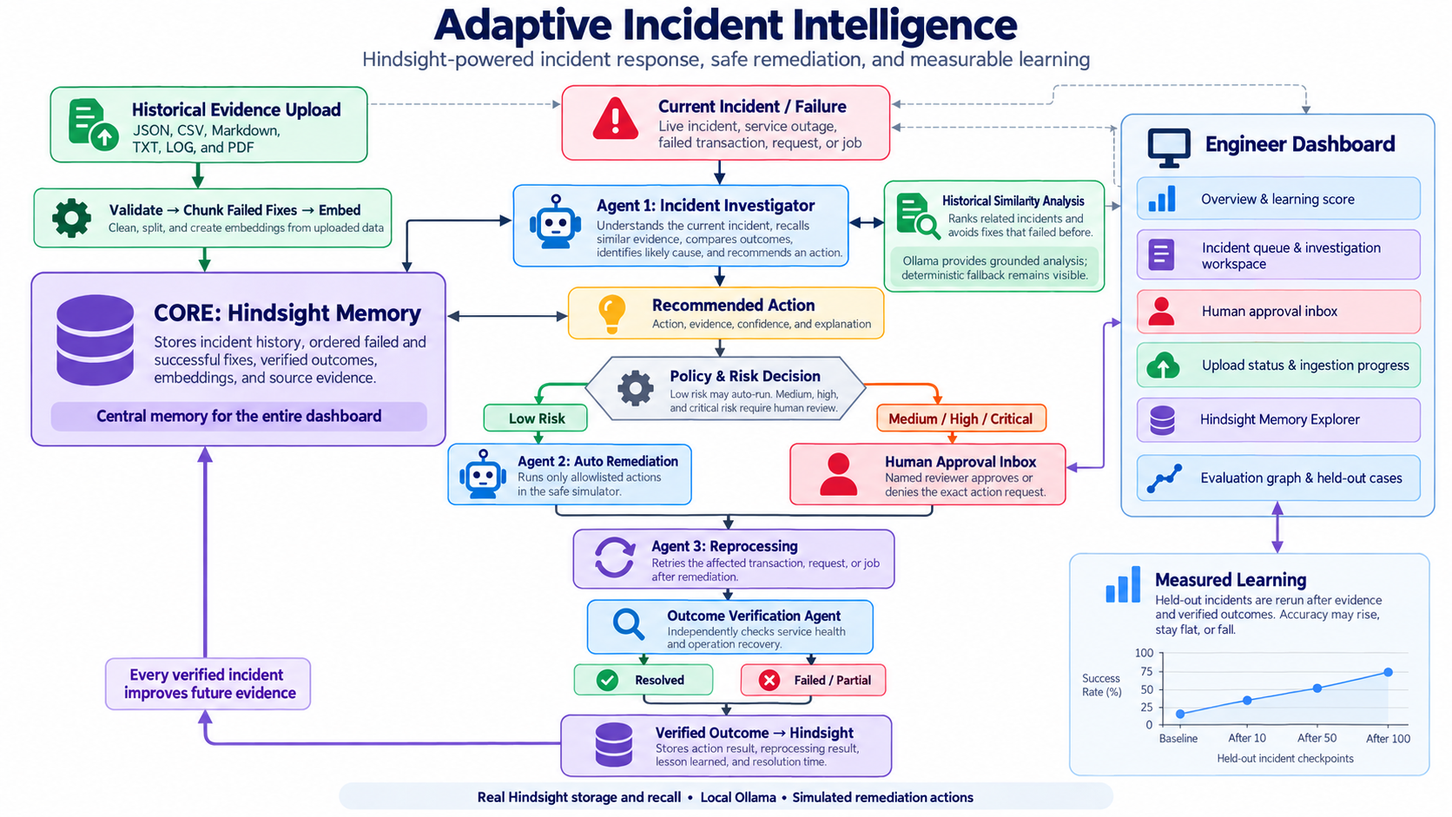
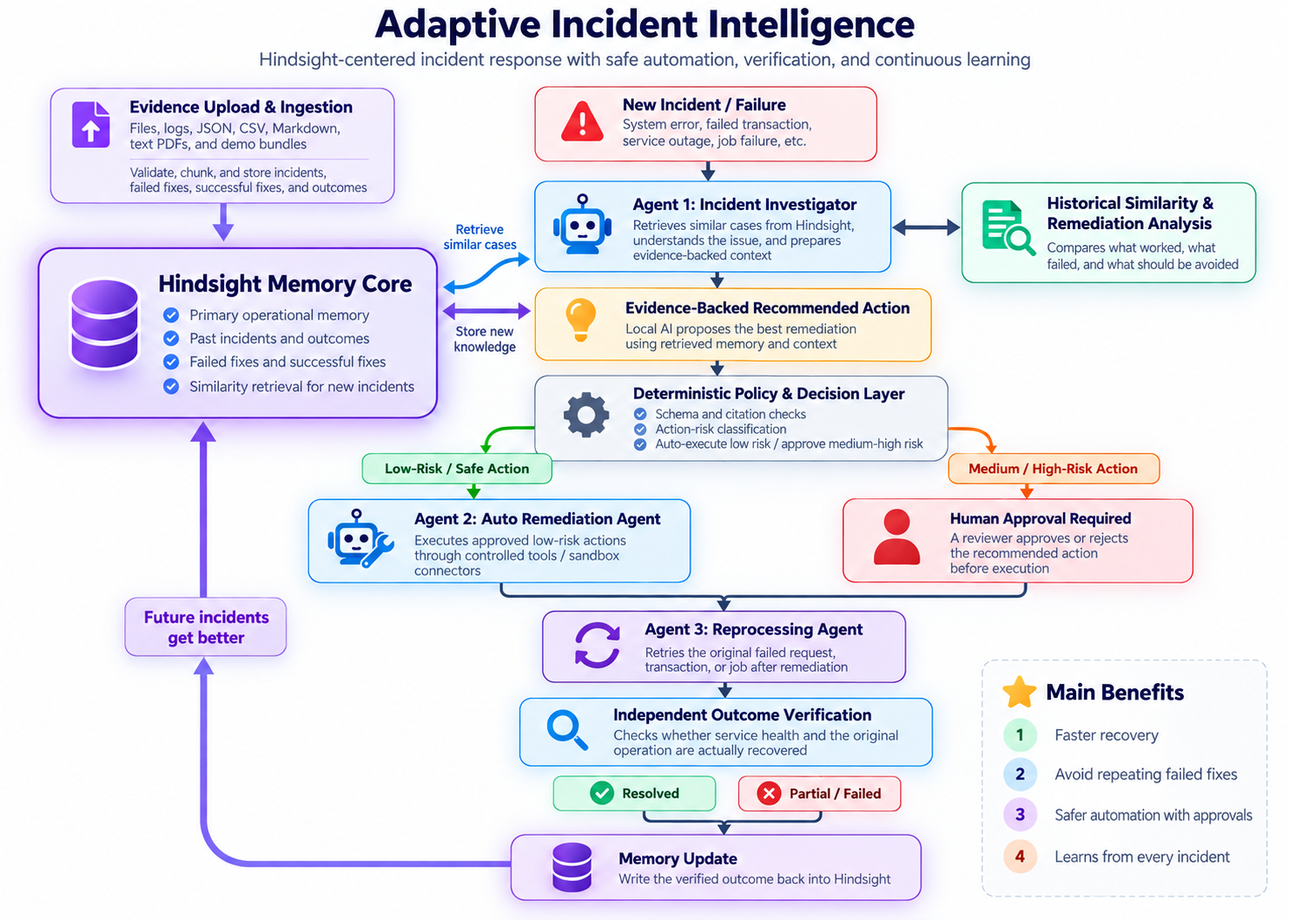
Synchronize architecture documentation

diff --git a/docs/architecture.md b/docs/architecture.md
@@ -2,7 +2,7 @@
 
 [Documentation index](README.md) | [Project overview](../README.md)
 
-![Adaptive Incident Intelligence system architecture](assets/system-architecture.svg)
+![Adaptive Incident Intelligence system architecture](assets/system-architecture-v3.png)
 
 ## Target flow
 
@@ -11,16 +11,18 @@
 3. The Incident Investigator consults Hindsight memory and historical similarity/remediation analysis.
 4. It returns a likely cause, recommended action, evidence, and confidence assessment.
 5. The Action Decision Layer checks an explicit action policy.
-6. The Auto Remediation Agent executes an allowed low-risk action, or waits for human approval for a medium/high-risk action. Rejected actions stop here.
+6. The policy layer authorizes automatic execution only for a low-risk action on a Low/Medium incident. Medium/high-risk actions and every High/Critical incident wait for human approval. Rejected actions stop here.
 7. After successful remediation, the Reprocessing Agent retries the failed transaction, request, or job.
 8. Outcome Verification checks whether the underlying problem and failed operation recovered.
-9. Resolved, failed, and partial outcomes are written to Hindsight for later investigations.
+9. Resolved, failed, and partial outcomes are written to Hindsight for later investigations. Insufficient-evidence and denied runs are retained as observations without claiming that a remediation failed.
 
-The dashboard does not maintain a parallel in-memory copy. It creates an isolated namespace on the configured backend, writes uploads and workflow outcomes there, and runs every UI investigation against that same namespace. With `MEMORY_BACKEND=hindsight`, the namespace is a real Hindsight bank. Reset rotates to a clean bank instead of clearing or impersonating Hindsight.
+The dashboard creates an isolated namespace on the configured backend, writes uploads, observations, and workflow outcomes there, and runs every UI investigation against that same namespace. With `MEMORY_BACKEND=hindsight`, the namespace is a real Hindsight bank. SQLite stores the dashboard projection, bank ID, upload index, pending reviews, completed workflows, and evaluation history so the same Hindsight-backed session resumes after an API restart. Reset explicitly rotates to a new clean bank.
+
+The diagram uses “Low-Risk / Safe Action” as a compact branch label. The authoritative rule also checks incident severity: High and Critical incidents always enter human review regardless of action risk.
 
 ## Measured learning
 
-The dashboard reruns the complete held-out set against the evidence available at each checkpoint: empty memory, every successful upload, and every verified workflow outcome. It records action accuracy, recommendation coverage, retrieval precision, failed-fix avoidance, per-case recommendations, and recalled source IDs. Expected labels remain outside prompts and memory records. Checkpoint values are measured independently, so the curve can stay flat or decline.
+The dashboard evaluates all 12 held-out cases against empty memory and after successful evidence or verified-outcome checkpoints. Evaluation runs in the background, resumes after an API restart, and keeps the last completed measurement visible while a new one runs. It records action accuracy, recommendation coverage, retrieval precision, failed-fix avoidance, per-case recommendations, and recalled source IDs. Expected labels remain outside prompts and memory records. Workflow clicks do not award points, and checkpoint values can stay flat or decline.
 
 Human approval authorizes a remediation; it does not itself fix the incident. Approved actions still need execution before reprocessing. This makes the approval branch in the supplied architecture explicit.
 
@@ -31,12 +33,12 @@ Human approval authorizes a remediation; it does not itself fix the incident. Ap
 | Incident Investigator | `agents/incident_investigator.py`, `agents/llm_investigator.py` | Deterministic baseline plus guarded Ollama synthesis |
 | Historical similarity and remediation analysis | `agents/remediation_memory.py`, `memory/memory_retriever.py` | Implemented for mock, SQLite, and Hindsight protocol clients |
 | Incident memory | `memory/hindsight_client.py`, `memory/sqlite_client.py`, `memory/hindsight_adapter.py` | Mock, SQLite, and official Hindsight SDK paths implemented |
-| Action Decision Layer | `tools/risk_classifier.py` | Implemented simulation allowlist and bound approvals |
+| Action Decision Layer | `tools/risk_classifier.py` | Allowlisted actions, authoritative risk, severity rules, and bound approvals |
 | Auto Remediation Agent | `agents/auto_remediation.py`, remediation service/tools | Implemented for local simulation |
 | Reprocessing Agent | `agents/reprocessing.py`, `tools/reprocessing_tools.py` | Implemented with remediation prerequisite |
 | Outcome Verification | `agents/outcome_verifier.py`, `services/verification_service.py` | Independent simulated health and operation checks |
-| Memory update | All memory clients through the shared protocol | Verified simulated outcomes written by `IncidentWorkflow` |
-| Web API | `api/app.py`, `api/runtime.py` | Typed incidents, investigation, workflow, approval, upload, reset, and evaluation endpoints |
+| Memory update | All memory clients through the shared protocol | Verified outcomes plus clearly typed unresolved/denied observations |
+| Web API | `api/app.py`, `api/runtime.py` | Typed incidents, investigation, workflow, approval, upload, reset, health, and background evaluation endpoints |
 | File ingestion and failed-remediation index | `services/ingestion_service.py`, `schemas/ingestion.py` | JSON validation, bounded chunks, local persistence/search, and Hindsight retention |
 
 The Remediation Memory module supports the investigator. It is distinct from the Auto Remediation Agent, which executes approved actions.
@@ -48,7 +50,7 @@ The Remediation Memory module supports the investigator. It is distinct from the
 - **Allow uncertainty:** return insufficient evidence when comparable history cannot support a recommendation.
 - **Separate recommendation and authorization:** every current investigation result has `execution_authorized: false`.
 - **Verify recovery:** a successful tool response alone is not proof that the failed operation recovered.
-- **Retain every outcome:** future memory should contain failures and partial recoveries as well as successful fixes.
+- **Retain every result:** memory contains successful, failed, and partial outcomes plus observations for unresolved or denied runs.
 - **Constrain the model:** schema validation, allowlisted actions, real citation checks, and historical sequence support run in Python.
 
 The hackathon's action tools are simulated. PIN reset is labeled low risk only within the synthetic demo; it is not a production authorization policy.

diff --git a/docs/implementation.md b/docs/implementation.md
@@ -23,7 +23,7 @@
 | `memory/hindsight_adapter.py`, `memory/factory.py` | Real SDK adapter and explicit mock/SQLite/Hindsight backend selection. |
 | `memory/sqlite_client.py` | Durable Docker-free local memory with transactional, idempotent writes. |
 | `memory/check_hindsight.py` | Connection and persistent write/read probe. |
-| `tests/test_hindsight_adapter.py` | 12 offline adapter and SDK contract tests. |
+| `tests/test_hindsight_adapter.py` | Offline adapter and SDK contract tests. |
 | `memory/hindsight_client.py` | Memory protocol and local in-memory implementation. |
 | `memory/memory_writer.py` | Validate datasets and seed historical records. |
 | `memory/memory_retriever.py` | Small facade that preserves complete histories. |
@@ -33,9 +33,9 @@
 | `schemas/investigation.py` | Evidence, counts, recommendation, and abstention output. |
 | `schemas/workflow.py` | Approval, simulation, execution, and recovery contracts. |
 | `data/*.json` | Historical inputs, remediation histories, and held-out labels. |
-| `tests/test_phase_one.py` | Foundation behavior: 11 tests. |
-| `tests/test_investigation.py` | Recommendation behavior: 11 tests. |
-| `tests/test_workflow.py` | Approval, execution, verification, and memory feedback: 16 tests. |
+| `tests/test_phase_one.py` | Foundation behavior and dataset separation. |
+| `tests/test_investigation.py` | Recommendation, abstention, and evidence behavior. |
+| `tests/test_workflow.py` | Approval, execution, verification, observations, and memory feedback. |
 | `llm/client.py`, `llm/prompts.py` | Bounded Ollama structured output and the evidence-only prompt. |
 | `schemas/llm.py` | Strict model proposal contract, separate from authorization. |
 | `schemas/ingestion.py`, `services/ingestion_service.py` | Upload result, failed-remediation chunks, validation, chunking, and storage orchestration. |
@@ -57,14 +57,14 @@
 - **Incident:** ID, service, severity, symptoms, environment, and optional error details, customer/transaction/job IDs, and recent change.
 - **RemediationAction:** action name, description, risk level (`LOW`, `MEDIUM`, `HIGH`), reason, and confidence between 0 and 1.
 - **Outcome:** unique outcome ID within an incident, incident ID, action, result (`SUCCESS`, `FAILED`, `PARTIAL`), optional reprocessing result, lesson, risk level, verification flag, and optional resolution time.
-- **IncidentMemory:** incident, optional root cause and recommendation, ordered outcomes, and optional final resolution.
+- **IncidentMemory:** typed experience or observation, incident, optional root cause and recommendation, ordered outcomes, related incident/workflow state, and optional final resolution.
 - **EvaluationCase:** held-out incident plus expected root cause, recommended action, relevant historical IDs, and actions to avoid before remediation. Labels are kept outside the incident input.
 
 Schemas reject unknown fields, empty required strings, invalid enum values, mismatched outcome incident IDs, duplicate outcome IDs within a record, and invalid confidence or duration values.
 
 ## Synthetic dataset
 
-There are **18 historical incidents and 6 held-out cases**, spanning:
+There are **18 historical incidents and 12 held-out cases** across six failure families. Each family has one primary test case and one additional held-out case, spanning:
 
 1. Customer PIN / master-data inconsistency.
 2. Payment provider routing failure.
@@ -73,7 +73,7 @@ There are **18 historical incidents and 6 held-out cases**, spanning:
 5. Catalog cache inconsistency.
 6. Downstream service timeout.
 
-Each family has three historical incidents and one held-out case. Historical records contain an initial failed retry, a successful remediation, and a successful retry after remediation: **54 ordered action outcomes** in total. All incidents, identifiers, outcomes, and durations are synthetic fixtures, not observed production results.
+Each family has three historical incidents and two held-out cases. Historical records contain an initial failed retry, a successful remediation, and a successful retry after remediation: **54 ordered action outcomes** in total. All incidents, identifiers, outcomes, and durations are synthetic fixtures, not observed production results.
 
 `incidents.json` contains historical inputs. `remediation_history.json` pairs those inputs with root causes, actions, and resolutions. `test_incidents.json` contains evaluation inputs and labels and is never passed to historical seeding. The loader checks matching IDs/content, valid references, and separation between history and held-out inputs.
 

diff --git a/docs/api.md b/docs/api.md
@@ -6,7 +6,7 @@ The FastAPI layer exposes the existing investigation and simulated workflow serv
 
 The React frontend selects the live adapter when `frontend/.env` contains `VITE_API_MODE=http`. Its dashboard routes use the `/api/ui/*` facade below; core automation remains in the same runtime and policy services used by the CLI and typed API.
 
-The UI facade starts with an empty session projection. Uploading history populates the incident queue and memory explorer. Evaluation progress remains at zero until workflows finish. `POST /api/ui/reset` clears this projection, its upload list, and simulated UI workflows without deleting durable backend records.
+The UI facade restores its dashboard state from `WORKFLOW_DB_PATH`, including the active memory namespace, upload index, pending reviews, completed workflows, and evaluation history. A first run starts with a clean namespace. `POST /api/ui/reset` deliberately rotates to another clean namespace and clears the saved dashboard projection.
 
 ## Start locally
 
@@ -24,7 +24,7 @@ The root URL `http://127.0.0.1:8000/` returns a small service status response. U
 
 | Method and path | Purpose |
 | --- | --- |
-| `GET /api/health` | Report configured memory/model providers and the simulation boundary. |
+| `GET /health`, `GET /api/health` | Report configured memory/model providers and the simulation boundary. |
 | `GET /api/capabilities` | Tell the UI which integrations are active. |
 | `POST /api/memory/uploads` | Validate and ingest JSON, CSV, Markdown, text/log, or text-based PDF incident history. |
 | `GET /api/memory/failed-remediations` | Search failed and partial remediation chunks. |
@@ -38,12 +38,13 @@ The root URL `http://127.0.0.1:8000/` returns a small service status response. U
 | `POST /api/ui/incidents/{incident_id}/workflow` | Run or resume the server-owned demonstration case. |
 | `POST /api/ui/incidents/{incident_id}/approval` | Submit the bound UI approval decision. |
 | `GET /api/ui/memory` | Search complete memory records for the memory explorer. |
-| `GET /api/ui/evaluation` | Run and return the deterministic checkpoint comparison. |
+| `GET /api/ui/evaluation` | Return the last completed metrics and current background-evaluation status. |
+| `POST /api/ui/evaluation/refresh` | Queue a fresh evaluation of all 12 held-out cases. |
 | `GET /api/ui/uploads` | List successfully uploaded files retained in the dashboard session. |
 | `DELETE /api/ui/uploads/{upload_id}` | Remove one upload and rebuild the session projection from remaining files. |
 | `POST /api/ui/reset` | Reset the dashboard learning demonstration. |
 
-The API generates demo incident IDs. The browser never submits `required_action`, health truth, or expected evaluation labels. Low-risk scenarios finish immediately. High-risk scenarios return `HUMAN_APPROVAL_REQUIRED` and a `decision.request_id` that must be returned with the reviewer decision.
+The API owns the demo cases and simulator truth. The browser never submits `required_action`, health truth, or expected evaluation labels. Only low-risk actions on Low/Medium incidents can execute automatically. Medium/high-risk actions and all High/Critical incidents return `HUMAN_APPROVAL_REQUIRED` with a `decision.request_id` that must accompany the reviewer decision.
 
 ## Approval lifecycle
 
@@ -51,6 +52,7 @@ The API generates demo incident IDs. The browser never submits `required_action`
 - A bound rejection returns `DENIED` and permanently closes the run.
 - A successful or denied run is removed from the active registry while its checkpoint and audit history remain durable.
 - Pending approvals survive API restarts through `WORKFLOW_DB_PATH`; the original investigation is restored without another model call.
+- Completed workflow state, dashboard memory namespace, uploads, and evaluation history also survive API restarts.
 - An approved action is checkpointed as `EXECUTING` before it runs. Ambiguous interrupted executions require reconciliation and are never automatically repeated.
 - With no approval credentials configured, reviewer names remain trusted local demo inputs.
 - To authenticate reviewers, set `APPROVAL_IDENTITIES_JSON` to a JSON object such as `{"alice":"a-long-random-token"}`. Send that token as `Authorization: Bearer ...`; the server derives and audits `alice` and rejects a conflicting body reviewer.

diff --git a/docs/getting-started.md b/docs/getting-started.md
@@ -12,7 +12,7 @@ python -m venv .venv
 Copy-Item .env.example .env
 ```
 
-For the full local stack, set these values in `.env`:
+For an offline local stack, set these values in `.env`:
 
 ```dotenv
 MEMORY_BACKEND=sqlite
@@ -23,6 +23,8 @@ LLM_CONTEXT=8192
 ```
 
 The application loads `.env` automatically. Existing shell variables take precedence. Relative data and database paths resolve from the project root.
+
+For the Hindsight-centered dashboard, start Hindsight as described in [Hindsight setup](hindsight-setup.md) and set `MEMORY_BACKEND=hindsight`. The API health response should report `memory_ready: true` before the demo.
 
 ## Choose a run mode
 
@@ -45,11 +47,11 @@ ollama pull qwen3.5:9b
 .venv\Scripts\python.exe main.py run --input data/examples/failed-retry-scenario.json --memory mock
 ```
 
-The demo runs two low-risk recoveries and one high-risk approval pause. Persistent demo IDs are generated automatically. Custom scenarios need unique incident IDs when stored in SQLite.
+The CLI demo runs two low-risk recoveries and one approval pause. The web dashboard exposes all 12 held-out cases, learns missing bundled history on demand, and retains verified outcomes or unresolved observations. Persistent demo IDs are generated automatically. Custom scenarios need unique incident IDs when stored in SQLite.
 
 ## Approval boundary
 
-The terminal asks for a reviewer only when `--interactive` is present. The reviewer must type `APPROVE`; otherwise the workflow stops without executing the action. Approval is bound to the incident, action, risk level, and policy rule. This prototype trusts the supplied reviewer name and does not provide user authentication.
+The terminal asks for a reviewer only when `--interactive` is present. The reviewer must type `APPROVE`; otherwise the workflow stops without executing the action. Approval is bound to the incident, action, risk level, and policy rule. High/Critical severity always requires approval, as do medium/high-risk actions. The local demo accepts reviewer names by default; deployments can configure bearer-token identities with `APPROVAL_IDENTITIES_JSON`.
 
 ## Verify and evaluate
 

diff --git a/docs/phase-6-evaluation.md b/docs/phase-6-evaluation.md
@@ -2,6 +2,8 @@
 
 [Documentation index](README.md)
 
+This document records the evaluation methodology introduced in Phase 6. Both the CLI and live dashboard now use all 12 held-out cases. The dashboard evaluates its current Hindsight namespace and publishes background progress, errors, and completed checkpoints. See [Architecture](architecture.md#measured-learning) for the current product path.
+
 ## Run
 
 ```powershell
@@ -9,7 +11,7 @@
 .venv\Scripts\python.exe -m evaluation.evaluate_memory --engine ollama --output reports/local-ollama.json
 ```
 
-Each engine runs the same six held-out cases with empty memory and with seeded historical memory. Each case has a fresh isolated store. Evaluation answers are used only by the scorer and simulator, never in the model prompt. Saved demo records cannot contaminate this comparison.
+The standalone CLI compares all 12 `TEST-*` and `HELD-*` cases with empty memory and seeded historical memory. Each case has a fresh isolated store. Evaluation answers are used only by the scorer and simulator, never in the model prompt. The dashboard evaluator runs the same case set against its live memory namespace.
 
 ## Metrics
 
@@ -38,9 +40,9 @@ Zero tool calls can mean abstention or waiting for approval. Only cases that exe
 
 Generated local reports are ignored by Git. Share a reviewed report with its model, timestamp, dataset size, and these limitations.
 
-## Latest local run
+## Archived Phase 6 local run
 
-On 2026-09-28, `qwen3.5:9b` completed all 12 comparison calls and three challenges with zero model fallbacks.
+On 2026-09-28, before the held-out set expanded, `qwen3.5:9b` completed 12 comparison calls across the original 6 cases and three challenges with zero model fallbacks. This table is historical evidence, not the current dashboard result.
 
 | Variant | Raw action accuracy | Accepted accuracy | Accepted coverage | Root-cause token F1 | Mean model latency |
 | --- | ---: | ---: | ---: | ---: | ---: |

diff --git a/frontend/README.md b/frontend/README.md
@@ -28,7 +28,7 @@ npm run build
 - `/incidents/:id` - investigation, evidence, policy, simulated workflow, and verification
 - `/memory` - Hindsight memory explorer with ordered outcomes and source chunks
 - `/memory/upload` - persistent session upload queue for JSON, CSV, Markdown, text/log, and PDF evidence
-- `/approvals` - medium and high risk review queue
+- `/approvals` - medium/high-risk actions and all High/Critical incidents awaiting review
 - `/evaluation` - repeated held-out evaluation at each real memory checkpoint
 
 ## API boundary
@@ -48,12 +48,13 @@ Live integration points:
 - `POST /api/ui/incidents/:incidentId/approval`
 - `GET /api/ui/overview`
 - `GET /api/ui/evaluation`
+- `POST /api/ui/evaluation/refresh`
 
 All remediation actions and observations shown by the frontend remain explicitly simulated. Uploads use the configured memory backend; Hindsight performs embeddings when that backend is active.
 
 ## Demo lifecycle
 
-The live dashboard begins with an isolated bank on the configured backend. Uploading evidence triggers a full held-out evaluation, and verified outcomes trigger another checkpoint. Accuracy, coverage, retrieval precision, and failed-fix avoidance are recomputed from actual recommendations and recalled IDs. A workflow click never awards progress, and a checkpoint may remain flat or decline. **Reset demo** rotates the dashboard to a new clean bank or database.
+The live dashboard restores its isolated memory namespace after API restarts. Uploading evidence and storing a verified outcome queue a background evaluation across all 12 held-out cases. The page polls its status and exposes **Refresh metrics** for an explicit rerun. Accuracy, coverage, retrieval precision, and failed-fix avoidance are computed from actual recommendations and recalled IDs. A workflow click never awards progress, and a checkpoint may remain flat or decline. **Reset demo** rotates to a new clean bank or database.
 
 ## Design system
 

diff --git a/docs/hindsight-setup.md b/docs/hindsight-setup.md
@@ -8,7 +8,7 @@ The local demo can use SQLite and Ollama without Hindsight. The following steps 
 
 ### Local Docker
 
-Install/start Docker Desktop with Linux containers. Configure the server's LLM provider and key using the official [installation guide](https://hindsight.vectorize.io/developer/installation) and [configuration reference](https://hindsight.vectorize.io/developer/configuration). The server needs a model for extraction even though this project's investigator is still rule-based.
+Install/start Docker Desktop with Linux containers. Configure the server's LLM provider and key using the official [installation guide](https://hindsight.vectorize.io/developer/installation) and [configuration reference](https://hindsight.vectorize.io/developer/configuration). Hindsight uses a model for memory extraction. The separate incident investigator uses a deterministic evidence baseline with guarded Ollama synthesis when configured.
 
 For a fully local setup, Hindsight runs in Docker and calls Ollama on the Windows host. This needs no API key. Pull the lightweight extraction model first:
 
@@ -107,4 +107,4 @@ $env:MEMORY_BACKEND = "mock"
 .venv\Scripts\python.exe main.py
 ```
 
-No server error silently changes this setting. Use one writer per bank for this prototype. Workflow approvals and duplicate-run caches remain in memory even when incident history is persistent.
+No server error silently changes this setting. Use one writer per bank for this prototype. The dashboard's active bank ID, upload index, pending approvals, completed workflows, and evaluation state persist through `WORKFLOW_DB_PATH`; Hindsight remains the source of incident evidence and learned outcomes.

diff --git a/README.md b/README.md
@@ -13,7 +13,7 @@ An evidence-backed incident response platform powered by Hindsight memory, guard
 ![React](https://img.shields.io/badge/UI-React%20%2B%20TypeScript-149ECA?logo=react&logoColor=white)
 ![Hindsight](https://img.shields.io/badge/Memory-Hindsight-7C3AED)
 ![Ollama](https://img.shields.io/badge/AI-Ollama%20%2B%20Qwen-111827)
-![Tests](https://img.shields.io/badge/Tests-112%20passing-16A34A)
+![Tests](https://img.shields.io/badge/Tests-131%20passing-16A34A)
 
 </div>
 
@@ -61,7 +61,8 @@ New incident ──> investigator <─────────────┘
         Python schema, citation, and risk checks
                        │
           ┌────────────┴────────────┐
-     low-risk action        medium/high-risk action
+ low-risk action on a       medium/high-risk action,
+ Low/Medium incident        or High/Critical incident
        auto execute             human approval
           └────────────┬────────────┘
                        │
@@ -118,7 +119,7 @@ For a short judge demo:
 - **Reasoning:** deterministic baseline plus guarded Ollama synthesis using `qwen3.5:9b`.
 - **Workflow safety:** durable approval state, audit events, execution checkpoints, and at-most-once connector receipts.
 - **Dataset:** 18 historical incidents, 54 ordered remediation outcomes, and 12 held-out cases across six failure families.
-- **Validation:** 104 Python tests and 8 frontend tests at this checkpoint.
+- **Validation:** 116 Python tests and 15 frontend tests passing at this checkpoint.
 
 ## Severity and action risk
 

diff --git a/docs/phase-4-recovery.md b/docs/phase-4-recovery.md
@@ -1,5 +1,7 @@
 # Phase 4: recovery verification and memory feedback
 
+> Historical checkpoint: this page describes the Phase 4 recovery loop. See the [current architecture](architecture.md) for the dashboard, Hindsight observations, and persistent evaluation flow.
+
 [Documentation index](README.md) | [Remaining phases](roadmap.md)
 
 **Status: implemented for local simulation.**
@@ -27,4 +29,4 @@ New outcome records preserve the action order and observed failures. The investi
 
 The full suite has **38 passing tests**, including 16 workflow tests. These cover approved execution, failures, partial recovery, tool success without recovery, repeat calls, write failures, and recalling a newly recorded incident. Tests use explicit synthetic scenario truth separate from the investigator's inputs.
 
-The feedback demonstration proves that new records are recalled. It does not establish an accuracy or recovery-time improvement. State, approvals, and duplicate protection are synchronous and in-process; real Hindsight persistence, authentication, distributed execution, and measured evaluation are not implemented.
+At this checkpoint, the feedback demonstration proved that new records were recalled but did not establish an accuracy or recovery-time improvement. State, approvals, and duplicate protection were synchronous and in-process. Later phases added real Hindsight persistence, optional reviewer authentication, durable workflow state, and measured evaluation.

diff --git a/docs/phase-1-foundations.md b/docs/phase-1-foundations.md
@@ -1,5 +1,7 @@
 # Phase 1: data and memory foundations
 
+> Historical checkpoint: this page describes the Phase 1 implementation. See the [current architecture](architecture.md) and [project overview](../README.md) for the completed prototype.
+
 [Documentation index](README.md) | [Next: investigation](phase-2-investigation.md)
 
 **Status: implemented.**
@@ -8,7 +10,7 @@
 
 1. Created the Python package structure and placeholders for later components.
 2. Added Pydantic incident, remediation, and outcome schemas to validate data at module boundaries.
-3. Created 18 historical incidents, 6 held-out cases, and 54 ordered action outcomes across six problem families.
+3. Created 18 historical incidents, the original 6 held-out cases, and 54 ordered action outcomes across six problem families. The current dataset adds 6 more held-out cases.
 4. Defined the `HindsightClient` protocol and an in-memory mock with deterministic retrieval.
 5. Added dataset validation, historical seeding, and outcome write/read operations.
 6. Tested schema constraints, retrieval, duplicate handling, isolation, and dataset references.

diff --git a/docs/phase-5-llm.md b/docs/phase-5-llm.md
@@ -1,5 +1,7 @@
 # Phase 5B: local LLM investigation
 
+> Historical checkpoint: this page records the local-model milestone. See the [current architecture](architecture.md) for the completed Hindsight-centered workflow and durable approval state.
+
 [Documentation index](README.md) | [Local setup](local-model.md)
 
 ## Implemented
@@ -35,4 +37,4 @@ The guarded policy intentionally limits model autonomy for this prototype. Raw p
 
 ## Limits
 
-The model does not execute real operations. SQLite retrieval uses the mock's lexical ranking; genuine Hindsight semantic retrieval still requires a running Hindsight service. The workflow approval cache is in-process. Prompt instructions reduce misuse of incident text but cannot guarantee an LLM's interpretation is correct; execution checks are enforced in Python.
+At this checkpoint, the workflow approval cache was in-process. The current dashboard persists approvals and workflow checkpoints through `WORKFLOW_DB_PATH`. The model still does not execute operations; prompt instructions guide interpretation while Python enforces citations, policy, and execution checks.

diff --git a/docs/phase-2-investigation.md b/docs/phase-2-investigation.md
@@ -1,5 +1,7 @@
 # Phase 2: investigation baseline
 
+> Historical checkpoint: this page describes the Phase 2 rule-based investigator. The current prototype adds guarded Ollama synthesis, Hindsight feedback, and durable workflow state; see the [current architecture](architecture.md).
+
 [Documentation index](README.md) | [Previous: foundations](phase-1-foundations.md) | [Next: remaining phases](roadmap.md)
 
 **Status: deterministic baseline and guarded local LLM reasoning implemented.** See [Phase 5B](phase-5-llm.md) for the model layer.
@@ -29,4 +31,4 @@ These checks establish behavior on the synthetic fixtures; they do not measure g
 
 ## Boundaries
 
-The current investigator is rule-based. It does not call an LLM, authorize execution, perform remediation, or write inferred outcomes into memory. See the [demo output](getting-started.md#current-demonstration).
+At this checkpoint, the investigator was rule-based. It did not call an LLM, authorize execution, perform remediation, or write inferred outcomes into memory. See the [current architecture](architecture.md) for the completed path.
